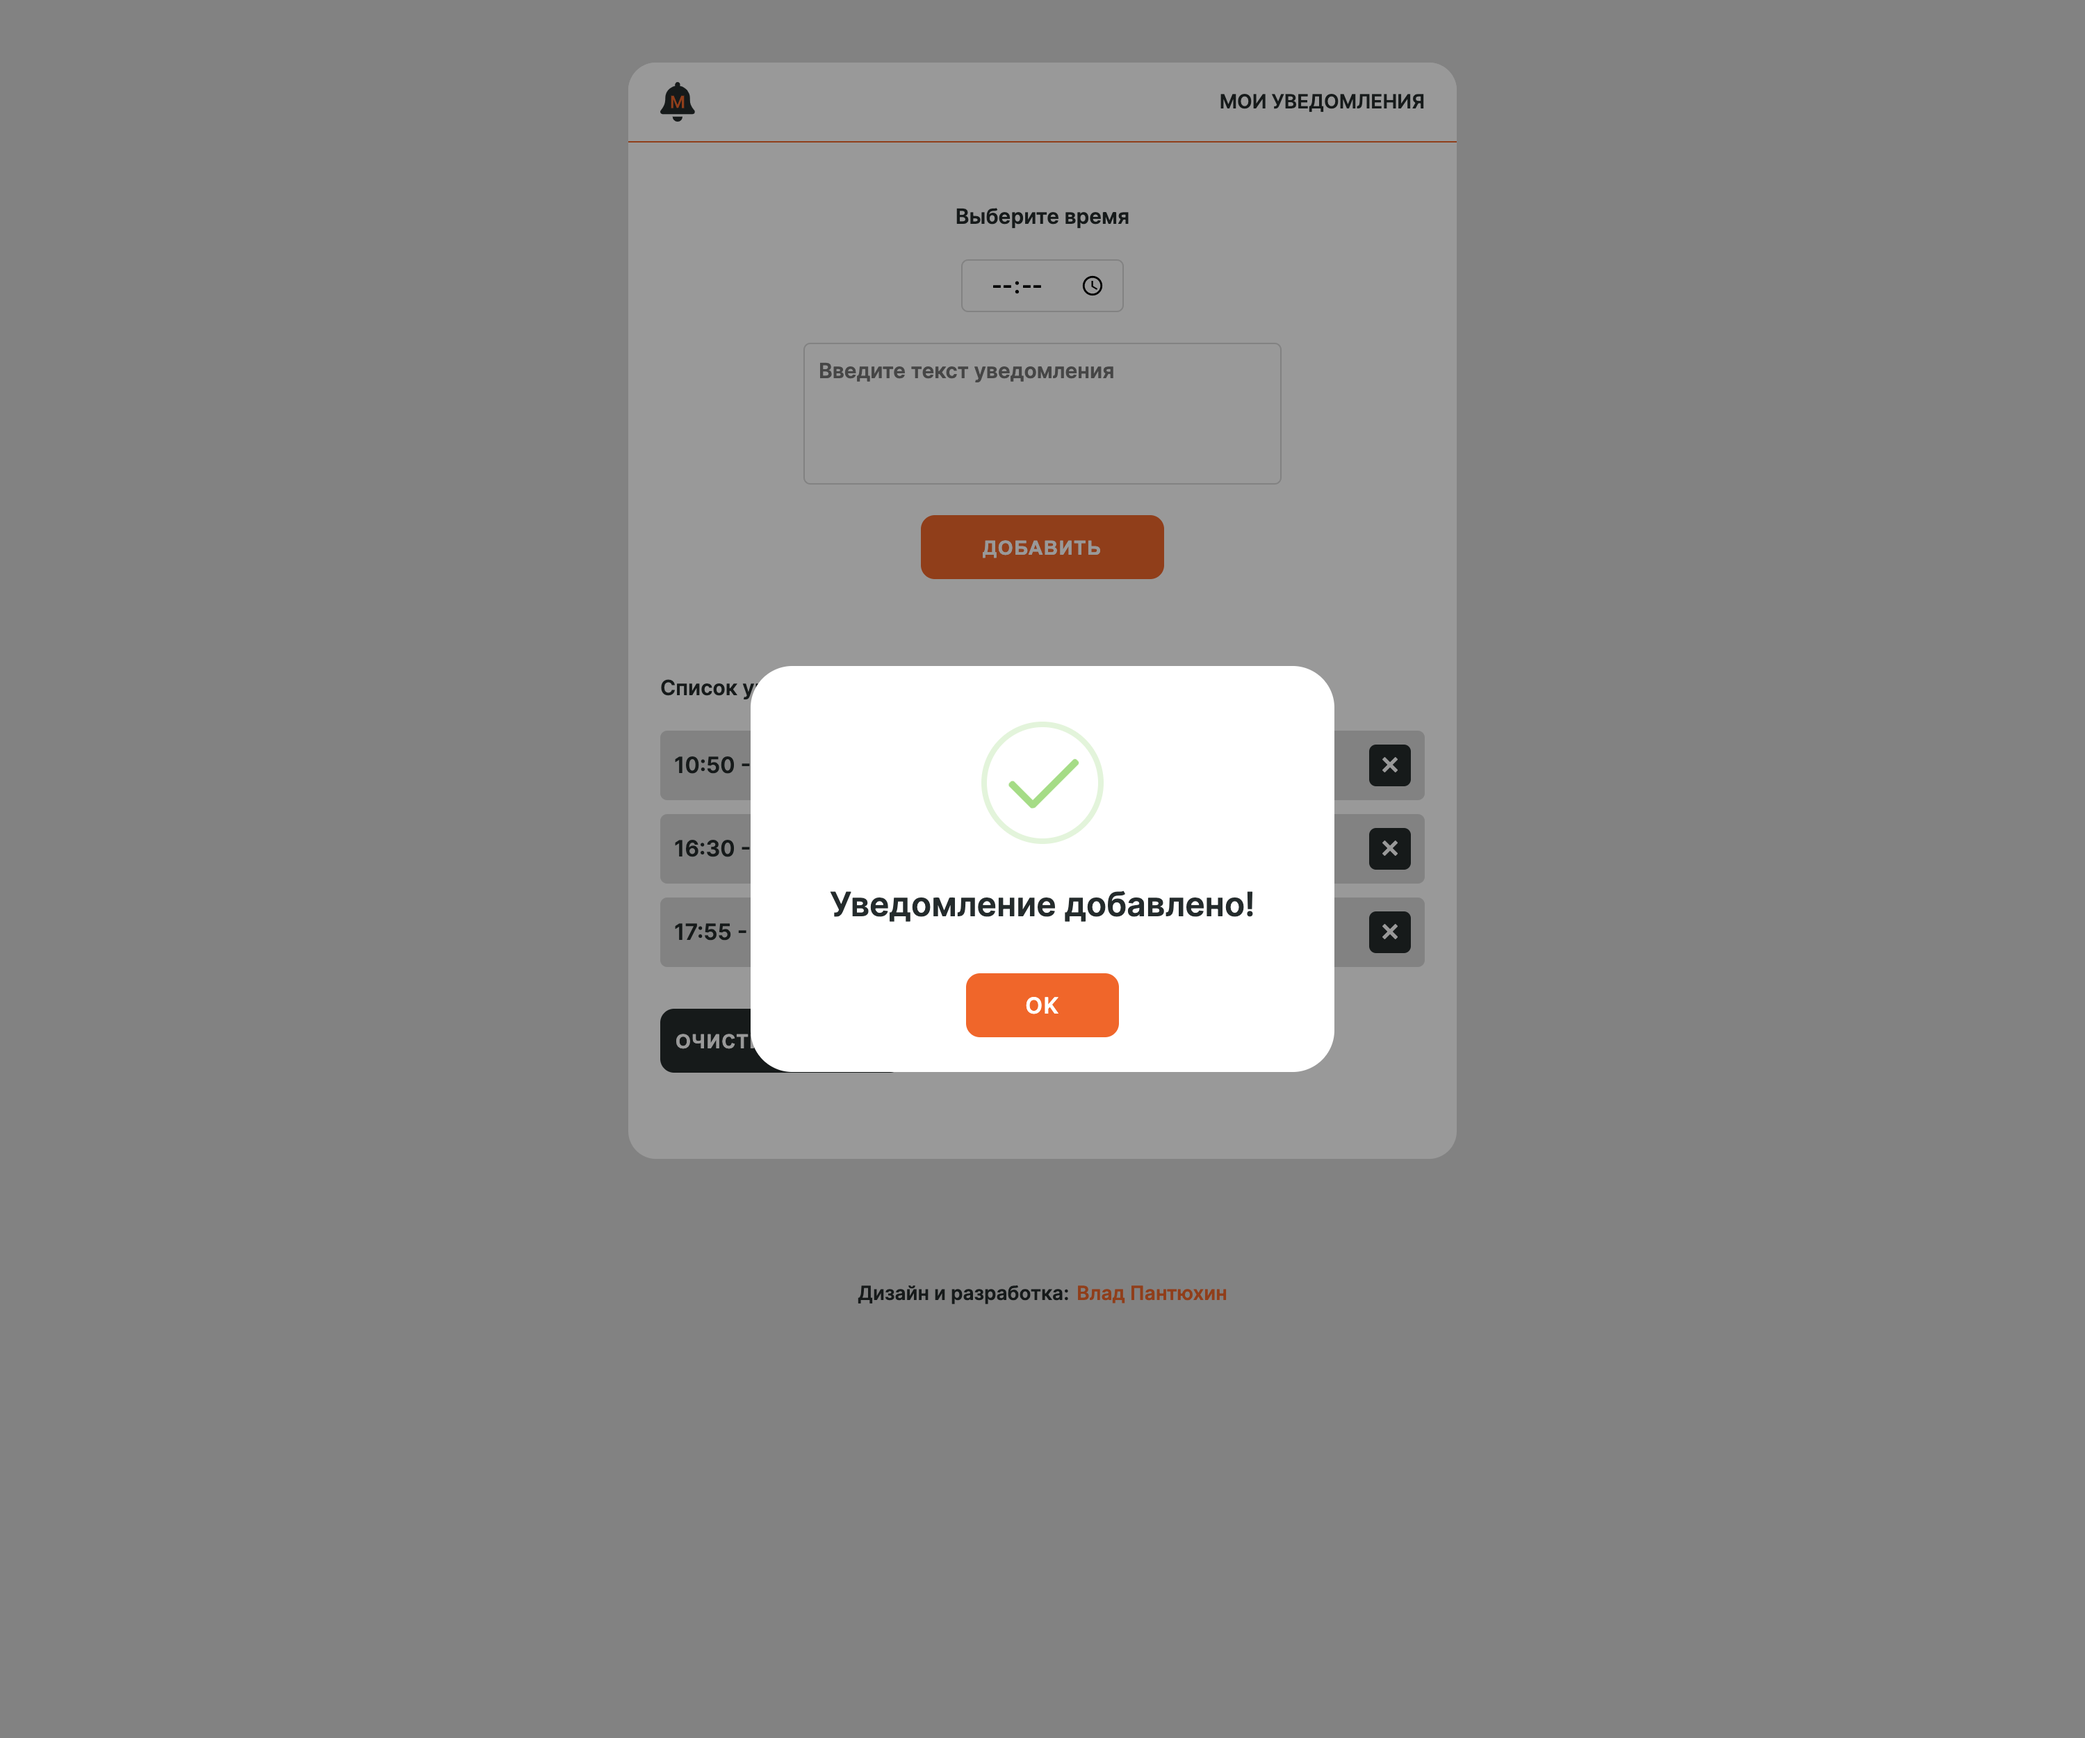
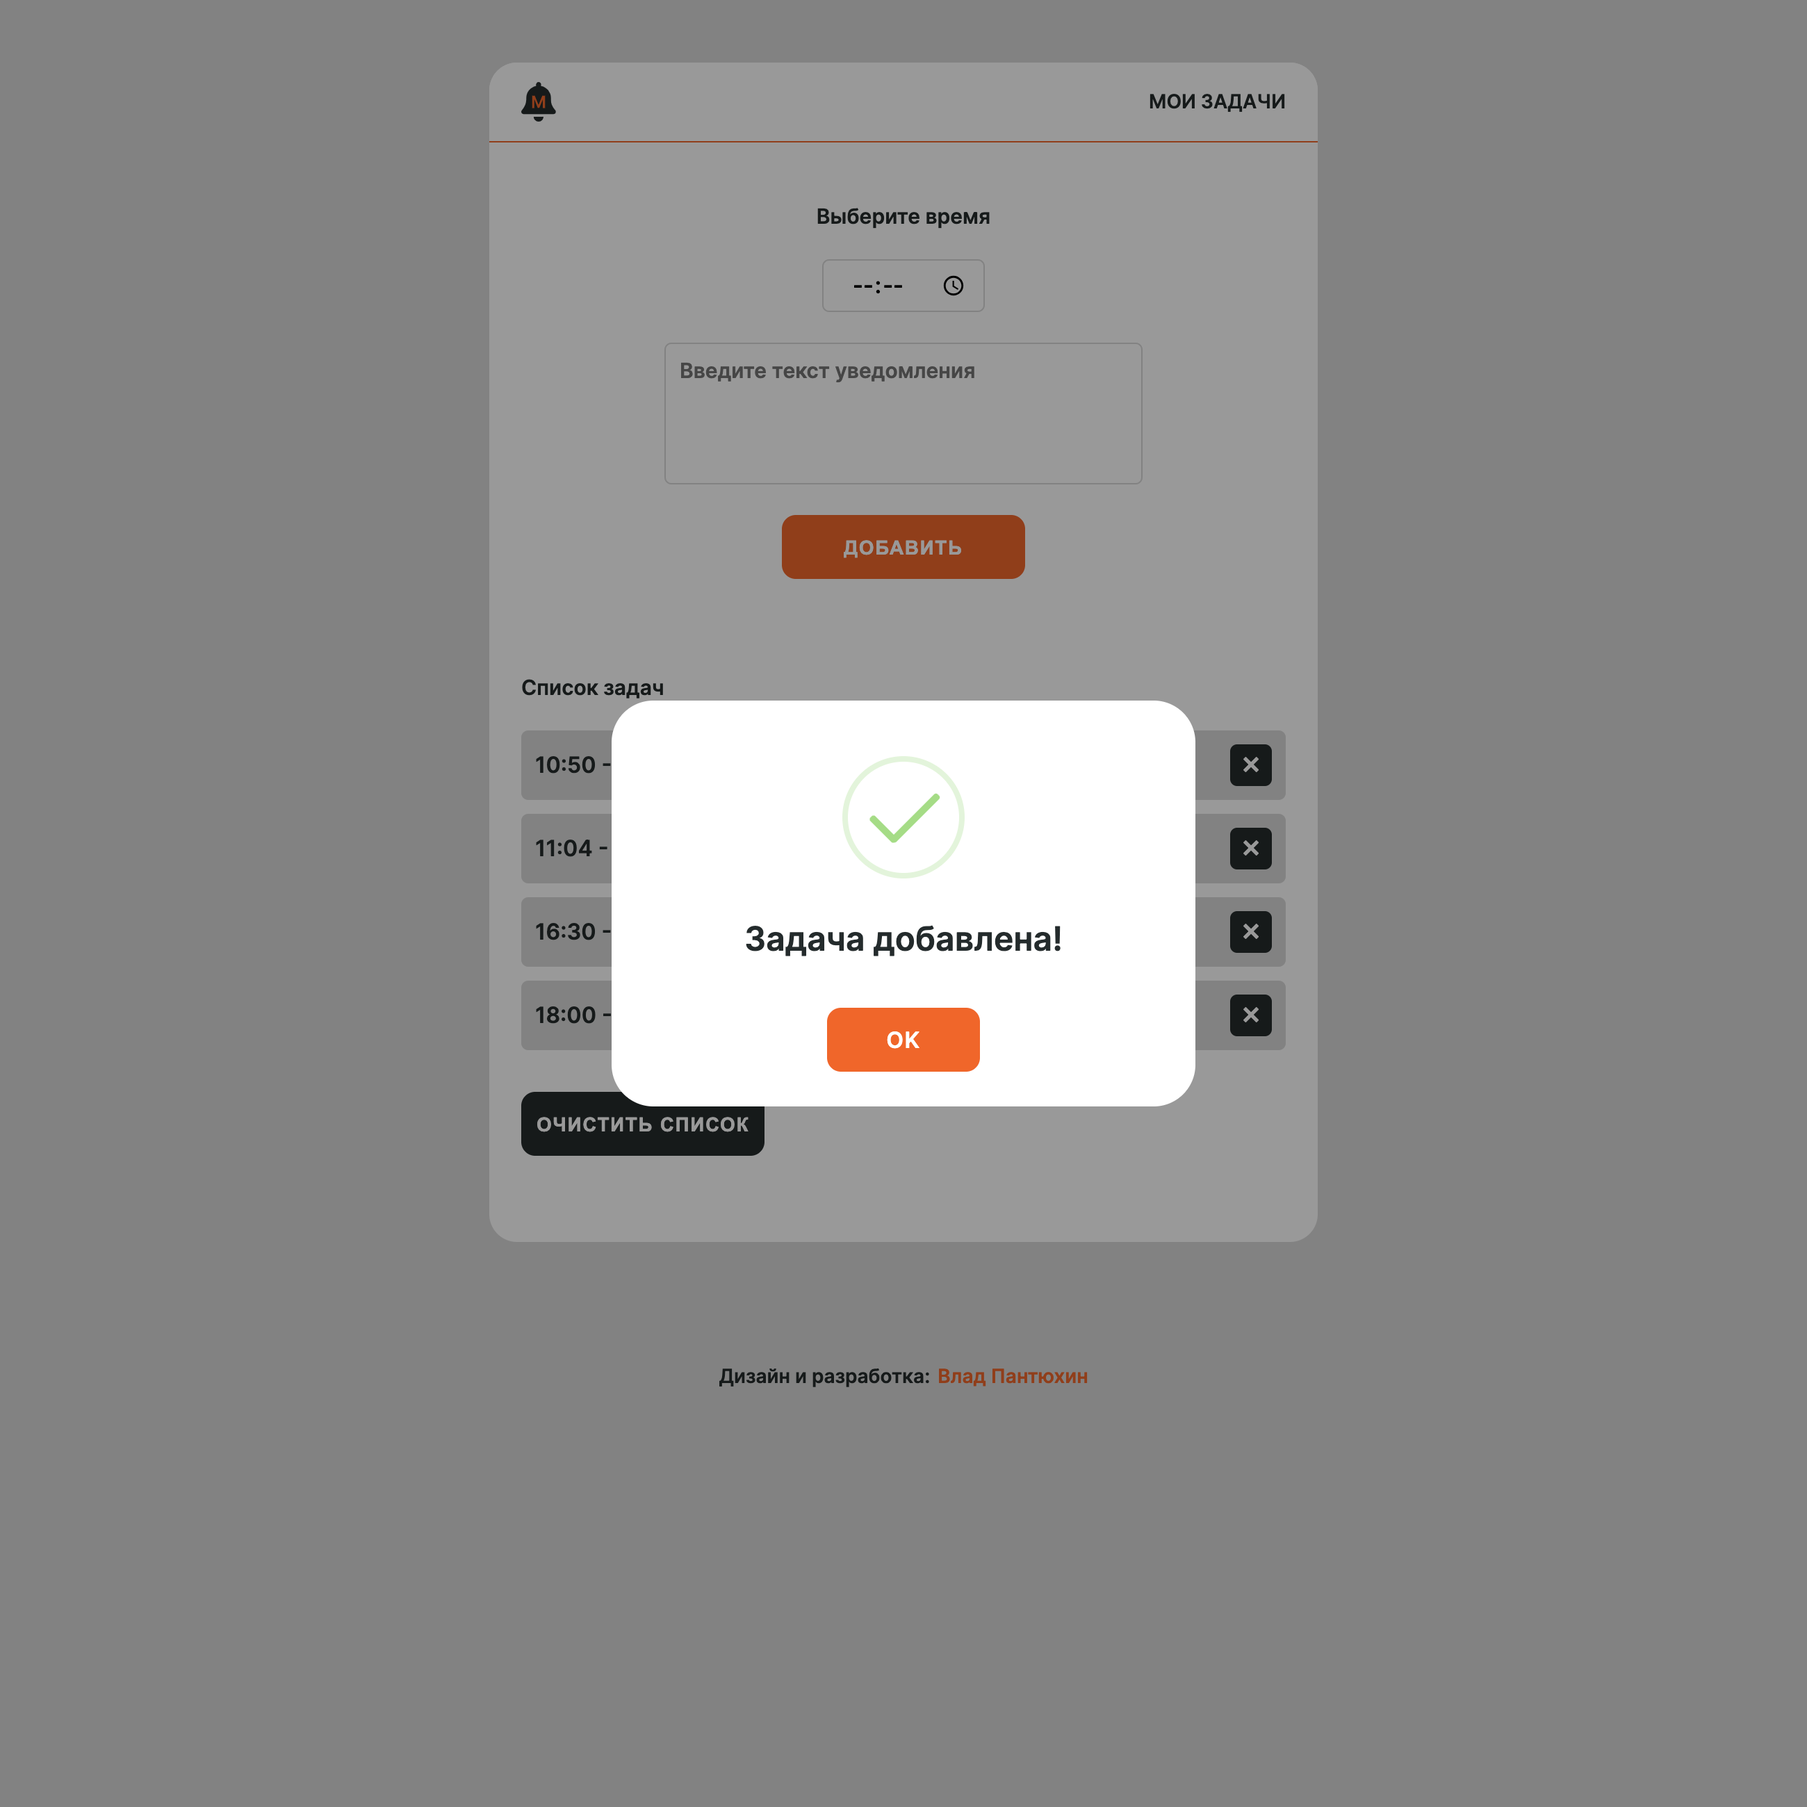
fix screen

diff --git a/index.html b/index.html
@@ -24,7 +24,7 @@
     <div class="notification__form">
       <h5>Выберите время</h5>
       <input type="time">
-      <textarea placeholder="Введите текст уведомления" maxlength="100"></textarea>
+      <textarea placeholder="Введите текст задачи" maxlength="100"></textarea>
       <button>Добавить</button>
     </div>
     <div class="notification__list">

diff --git a/README.md b/README.md
@@ -1,6 +1,6 @@
 ## Веб-приложение "Мои задачи"
 
-Дизайн выполнен в Figma, список уведомлений хранится в Local Storage. При активации уведомления срабатывает звуковой сигнал. Pop-Up окна сделаны с помощью библиотеки SweetAlert2. Данное веб-приложение для личного пользования и создано в рамках обучения Frontend-разработке.
+Дизайн выполнен в Figma, список уведомлений хранится в Local Storage. Pop-Up окна сделаны с помощью библиотеки SweetAlert2. Данное веб-приложение для личного пользования и создано в рамках обучения Frontend-разработке.
 
 Ссылка: https://vladpantyukhin.github.io/my-tasks/
 
